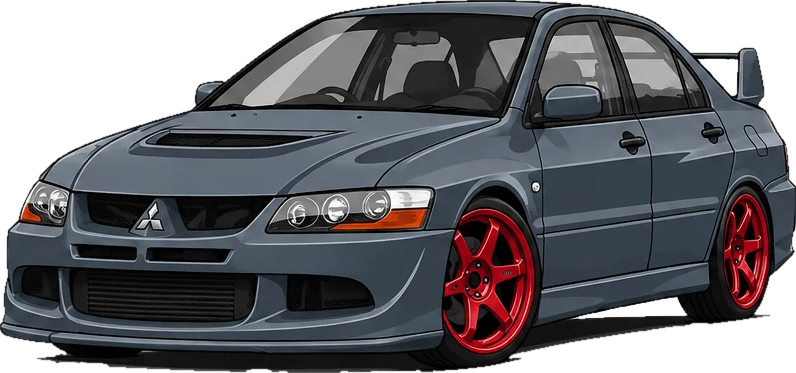
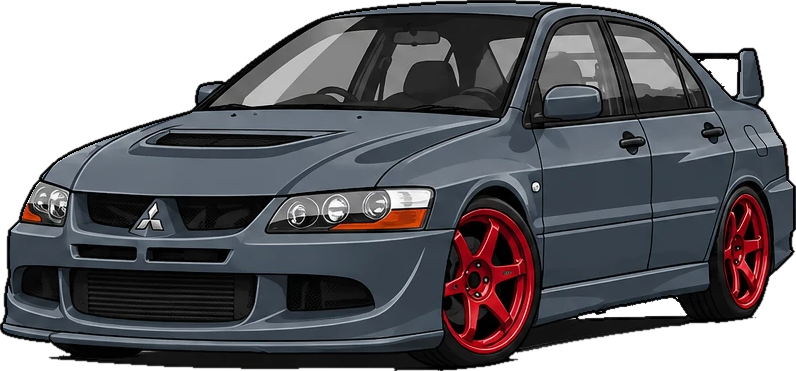
Эво вырезана заново: без светлой каймы (cut_sheet --defringe), без тени и щели под порогом; полосы скорости — за машиной
Claude-Session: https://claude.ai/code/session_011h7oDPmmegoivb4yRZ71Zj

diff --git a/reels/perekupy/toon/series41/props50.js b/reels/perekupy/toon/series41/props50.js
@@ -4,7 +4,7 @@ const SEMEN = { jacket: "#2f4f8a", pants: "#2f4f8a", hair: "#9a9a9a", mustache: 
 const KIRILL = { jacket: "#e8e4d8", coat: "#d9cdb4", pants: "#3a3f46", hair: "#c9a24a", scarf: "#7a4a8a", look: "grin" };
 const DIMA = { jacket: "#151515", pants: "#2b2f37", cap: "#2f6db5", hair: "#1d1d1f", look: "grin" };
 const EVO = "evo/evo_34.png", EVOR = "evo/evo_34r.png", EVOS = "evo/evo_side.png";
-Object.assign(CINE.SIZES, { [EVO]: [796, 373], [EVOR]: [655, 352], [EVOS]: [766, 251] });
+Object.assign(CINE.SIZES, { [EVO]: [796, 371], [EVOR]: [655, 352], [EVOS]: [766, 251] });
 const HUD50 = (lis) => ({ tag: "жизнь одной эво", lis });
 // одометр вместо капитала: пробег по годам
 const ODO = (km, id = "odo") => `<div id="${id}" style="position:absolute;left:60px;top:290px;z-index:52;font-family:'JetBrains Mono';font-weight:800;font-size:54px;color:#fff;background:#0d0e12;border:6px solid #ff7a1a;border-radius:18px;padding:2px 20px;box-shadow:0 0 26px #ff7a1a66,0 8px 0 #151515;font-variant-numeric:tabular-nums">⏲ <span>${km}</span> км</div>`;
@@ -14,7 +14,7 @@ const YEAR = (y, c = "#ffd23f", id = "yr") => `<div id="${id}" style="position:a
 const SLINGS = (hx, hy, l, t, w) => `<svg class="prop" style="left:0;top:0;width:1080px;height:1920px;z-index:6;overflow:visible" viewBox="0 0 1080 1920">
   <path d="M${hx} 315 V${hy}" stroke="#151515" stroke-width="6"/><path d="M${hx} ${hy} L${l + w * .18} ${t + 40} M${hx} ${hy} L${l + w * .82} ${t + 40}" stroke="#151515" stroke-width="6"/><circle cx="${hx}" cy="${hy}" r="16" fill="#e8a33a" stroke="#151515" stroke-width="5"/></svg>`;
 // следы скорости (трек)
-const SPEED = (y0, y1, n = 14) => Array.from({ length: n }, (_, k) => `<div style="left:${(k * 137) % 1000 - 100}px;top:${y0 + (k * 53) % (y1 - y0)}px;width:${200 + (k % 4) * 90}px;height:8px;border-radius:4px;background:#fff;opacity:.45;z-index:6"></div>`).join("");
+const SPEED = (y0, y1, n = 14) => Array.from({ length: n }, (_, k) => `<div class="spd" style="left:${(k * 137) % 1000 - 100}px;top:${y0 + (k * 53) % (y1 - y0)}px;width:${200 + (k % 4) * 90}px;height:8px;border-radius:4px;background:#fff;opacity:.35;z-index:3"></div>`).join("");
 // разбитая морда: смятый капот, трещины, пар, снег на бампере (поверх evo_34 в координатах машины l, t, w)
 const CRASH = (l, t, w) => { const k = w / 796; return `<svg class="prop" style="left:${l}px;top:${t}px;width:${w}px;height:${373 * k}px;z-index:7;overflow:visible" viewBox="0 0 796 373">
   <!-- капот вздыбился «домиком» -->

diff --git a/reels/perekupy/toon/cine.js b/reels/perekupy/toon/cine.js
@@ -9,7 +9,7 @@
     "granta/granta_34.png": [791, 366], "granta/granta_34r.png": [683, 344], "granta/granta_side.png": [777, 266], "vaz2110/vaz2110_34.png": [735, 342],
     "vaz2110/vaz2110_side.png": [749, 252], "camry/camry.png": [1317, 627], "corolla/corolla.png": [1358, 462], "priora/priora_white.png": [1263, 410],
     "priora/priora_black.png": [1263, 410], "vaz2114/vaz2114_white.png": [1006, 332], "markii/markii.png": [983, 467], "niva/niva_34.png": [669, 361],
-    "evo/evo_34.png": [796, 373], "vaz2115/vaz2115.png": [1305, 375], "vaz2105/vaz2105_34.png": [775, 352], "x6/x6_34.png": [745, 356], "prado/prado_34.png": [732, 366],
+    "evo/evo_34.png": [796, 371], "vaz2115/vaz2115.png": [1305, 375], "vaz2105/vaz2105_34.png": [775, 352], "x6/x6_34.png": [745, 356], "prado/prado_34.png": [732, 366],
     "bmw/bmw_34.png": [696, 280], "cls/cls_34.png": [787, 338], "vaz2114t/vaz2114t_34.png": [766, 315], "gelik/gelik_34.png": [456, 314] };
   C.IMG = "../../kit/img/";
   // детерминированный «рандом» для дождя/пылинок

diff --git a/reels/perekupy/kit/img/_tools/cut_sheet.py b/reels/perekupy/kit/img/_tools/cut_sheet.py
@@ -3,6 +3,7 @@
 # «стенка» — тёмные и цветные пиксели (контур, шины, кузов), чуть утолщённые, чтобы закрыть щели в контуре; всё, до чего от края кадра
 # можно дойти, не пересекая стенку, — фон (и белый, и серая тень). Так белая машина (Гранта) не «вытекает» вместе с белым фоном.
 # --shadow-l=N: тень под машиной — нейтральные пиксели светлее N (по умолчанию 60; у CLS тень тёмная — 46).
+# --defringe: убрать светлую кайму по контуру (края — цветом соседнего чёрного контура).
 # --white-holes: замкнутые чисто-белые просветы (между антикрылом и багажником у Эво) — тоже фон.
 import sys
 import numpy as np
@@ -66,5 +67,10 @@ for nm, sl in zip(names, boxes):
     fg = ndimage.binary_erosion(fg, iterations=1)
     ys, xs = np.nonzero(fg)
     alpha = (ndimage.gaussian_filter(fg.astype(float), .6) * 255).clip(0, 255)
+    if "--defringe" in sys.argv:          # светлая кайма по контуру: край (3 px внутрь) берёт самый тёмный цвет соседей — у листов владельца там чёрный контур
+        rim = fg & ~ndimage.binary_erosion(fg, iterations=3)
+        dark = np.dstack([ndimage.minimum_filter(a[..., c], size=5) for c in range(3)])
+        a = a.copy(); a[rim] = dark[rim]
+        alpha = alpha * ndimage.binary_dilation(fg, iterations=1)
     out = np.dstack([a, alpha]).astype(np.uint8)[ys.min():ys.max() + 1, xs.min():xs.max() + 1]
     Image.fromarray(out).save(f"{d}/{name}_{nm}.png"); print(f"{d}/{name}_{nm}.png", out.shape[1], out.shape[0])

diff --git a/reels/perekupy/kit/img/evo/fix_under.py b/reels/perekupy/kit/img/evo/fix_under.py
@@ -1,0 +1,16 @@
+# дочистка тени под кузовом CLS 3/4: ниже линии низа кузова оставляем только колёса (эллипсы шин)
+import sys, numpy as np
+from PIL import Image
+from scipy import ndimage
+f, wheels = sys.argv[1], eval(sys.argv[2]); line = eval(sys.argv[3])     # wheels: [(cx, cy, rx, ry)], line: [(x, y)] — низ кузова
+im = np.asarray(Image.open(f).convert("RGBA")).copy(); h, w = im.shape[:2]
+yy, xx = np.mgrid[:h, :w]
+yl = np.interp(xx, [p[0] for p in line], [p[1] for p in line])
+inw = np.zeros((h, w), bool)
+for cx, cy, rx, ry in wheels: inw |= ((xx - cx) / rx) ** 2 + ((yy - cy) / ry) ** 2 < 1
+kill = (yy > yl) & ~inw
+a = im[..., 3].astype(float); a[kill] = 0
+a = ndimage.gaussian_filter((a > 127).astype(float), .6) * 255
+im[..., 3] = a.clip(0, 255).astype(np.uint8)
+Image.fromarray(im).save(f.replace(".png", "_fix.png"))
+bg = Image.new("RGBA", (w, h), (255, 0, 255, 255)); bg.alpha_composite(Image.fromarray(im)); bg.convert("RGB").save("fixprev.jpg")
